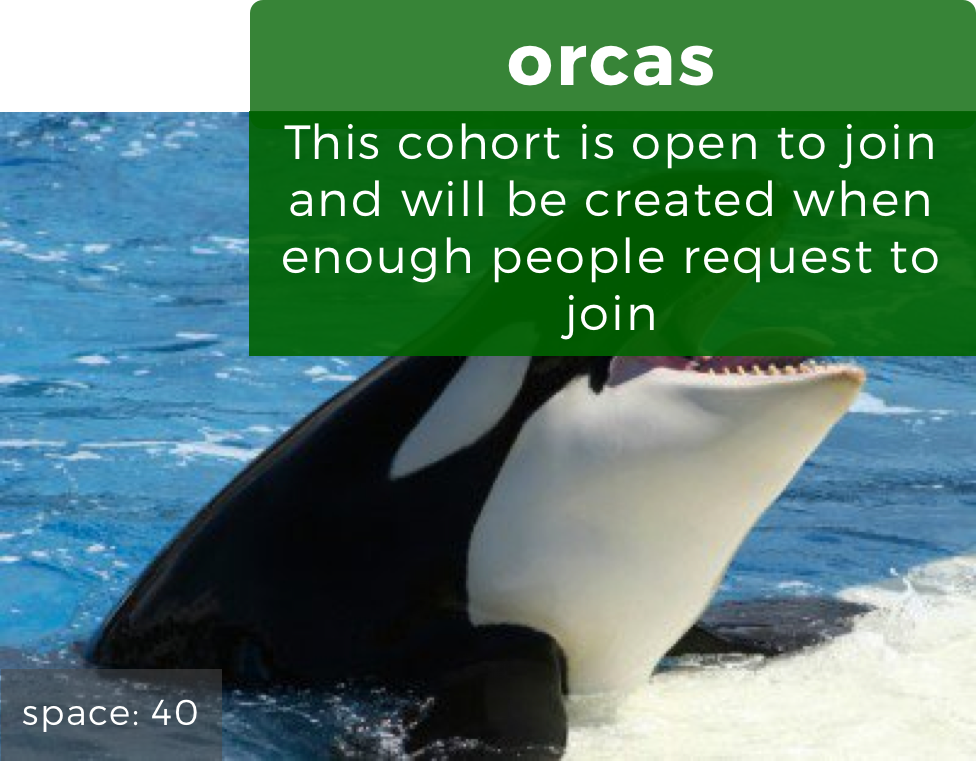
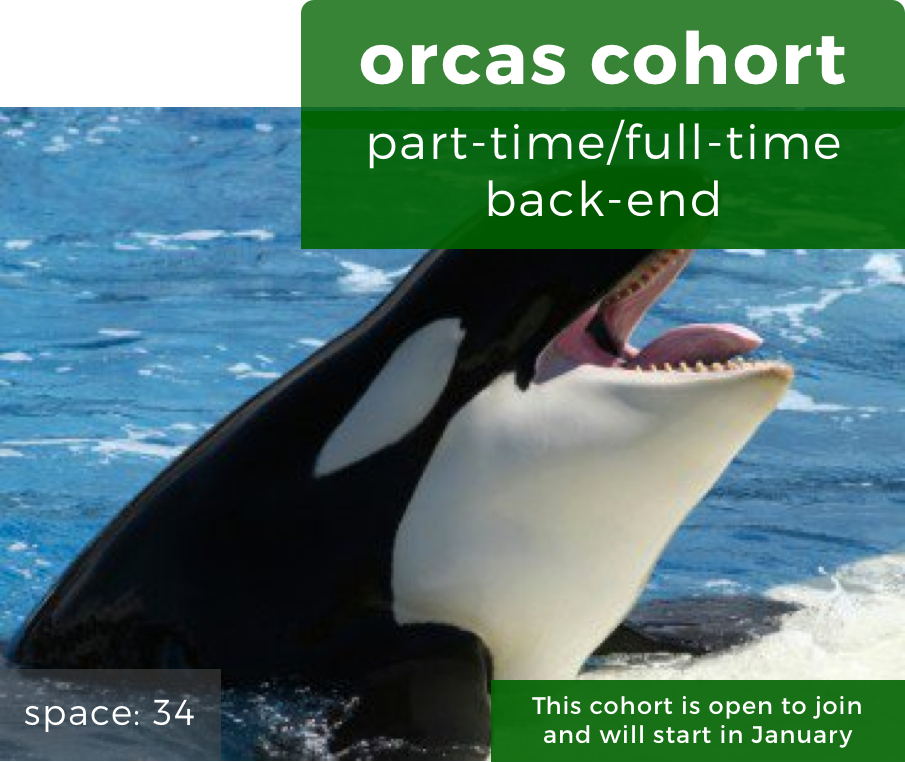
December update

diff --git a/index.html b/index.html
@@ -75,7 +75,7 @@
                       <br><br>
                         <span class="name">chingu</span>
                         <br>
-                        <span class="skills">FCC COHORT GENERATOR FTW</span>
+                        <span class="skills">WEB-DEV COHORT GENERATOR FTW</span>
                         <br><br>
                     </div>
                 </div>
@@ -124,12 +124,52 @@
                                 <i class="fa fa-search-plus fa-3x"></i>
                             </div> -->
                         </div>
-                        <img src="img/portfolio/orca.png" class="img-responsive" alt="">
+                        <img src="img/portfolio/addcohort.png" class="img-responsive" alt="">
+                    </a>
+                </div>
+    <br>
+    
+    <div class="row">
+
+
+
+                <div class="col-sm-4 portfolio-item">
+
+                        <div class="caption">
+
+                        </div>
+                      <img src="img/portfolio/tamarin.png" class="img-responsive" alt="">
+
+                </div>
+
+
+                <div class="col-sm-4 portfolio-item">
+
+                        <div class="caption">
+
+                        </div>
+                        <img src="img/portfolio/alpaca.png" class="img-responsive" alt="">
+                    </a>
+                </div>
+
+                <div class="col-sm-4 portfolio-item">
+                    <!-- <a href="#portfolioModal6" class="portfolio-link" data-toggle="modal"> -->
+                        <div class="caption">
+                          <!--  <div class="caption-content">
+                                <i class="fa fa-search-plus fa-3x"></i>
+                            </div> -->
+                        </div>
+                        <img src="img/portfolio/pups.png" class="img-responsive" alt="">
                     </a>
                 </div>
             </div>
         </div>
     </section>
+    
+            </div>
+        </div>
+    </section>
+
 
     <!-- About Section -->
     <section class="success" id="about">
@@ -142,7 +182,7 @@
             </div>
             <div class="row">
                 <div class="col-lg-4 col-lg-offset-2">
-                    <p>Here is what we do: put people with similar FCC aspirations together in a slack group. Friendships, level ups and hijinks ensue. The FCC chatrooms are great, but for the more shy (like me) they can be a bit chaotic and intimidating. This project aims to create more of a bootcamp style community (but for free).</p>
+                    <p>Here is what we do: put motivated people with similar goals together in a slack group. Friendships, level ups and hijinks ensue. The FCC chatrooms are great, but for the more shy (like me) they can be a bit chaotic and intimidating. This project aims to create more of a bootcamp style community.</p>
                 </div>
                 <div class="col-lg-4">
                     <p>How it works is you pick a cohort that fits you and send me an email with your choice. I'll get my messenger-pigeon to send you a slack-invite within a few days. So if you're serious about learning to code, feel free to pick a cohort and join this experiment. If you have any questions or ideas, let's chat!  </p>
